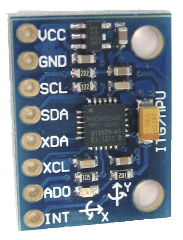
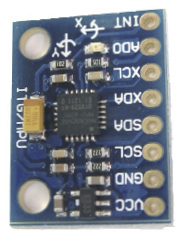
in-progress documentation

diff --git a/README.md b/README.md
@@ -26,13 +26,15 @@ The Raspberry Pi runs an MQTT server and upon receving the values from the conne
 ## Setup
 #### Hardware
 *  Use the image below as a reference and wire the NodeMCU, GY-521 MPU6050, Multi-Color LED and NodeMCU on top of an Breadboard
+<img src="images/schematic.jpg" alt="Gesture Controlled RaspberryPi Rover" />
 <img src="images/NodeMCUWiring.jpg" alt="Gesture Controlled RaspberryPi Rover" width="300" height="168" />
+
+* Ensure you keep the direction of the GY-521 MPU6050 chip exactly as shown in the image. 
+The INT pin should be facing towards the fingers of the glove
+<img src="images/mpu-6050.jpg" alt="Gesture Controlled RaspberryPi Rover" />
+
 * Mount the NodeMCU over the top of the glove. I used a double sided tape to stick the breadboard to the glove.
 <img src="images/GloveMount.jpg" alt="Gesture Controlled RaspberryPi Rover" width="300" height="168" />
-* Ensure you keep the direction of the GY-521 MPU6050 chip exactly as shown in the image. 
-The INT pin should be facing towards the fingers
-<img src="images/mpu-6050.jpg" alt="Gesture Controlled RaspberryPi Rover" style="transform:rotate(180deg);" />
-
 
 #### Software
 * Setting up an MQTT communication: I found this very helpfull post on setting up and using MQTT communication between a [Raspberry Pi and NodeMCU](https://www.instructables.com/id/How-to-Use-MQTT-With-the-Raspberry-Pi-and-ESP8266/). Follow till section `Step 6: Installing Python Client (paho-mqtt)` of the post. Keep a note of the MQTT credentials
